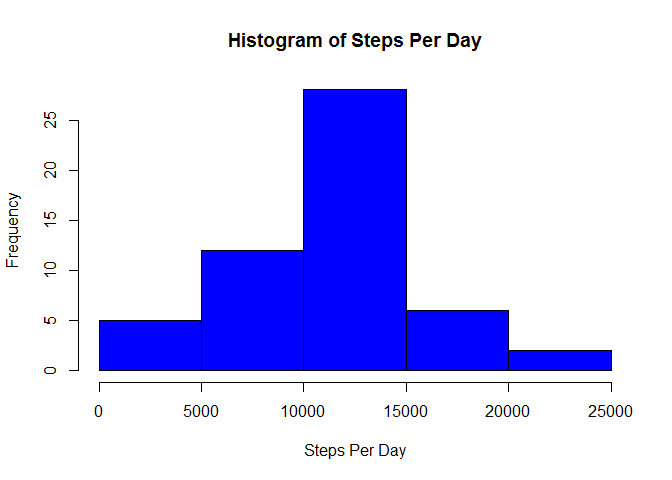
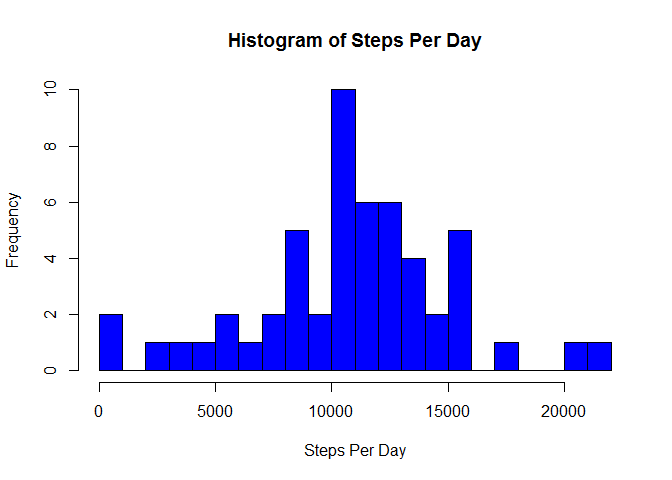
changing breaks in the histogram

diff --git a/PA1_template.html b/PA1_template.html
@@ -172,8 +172,8 @@ head(stepsByDay)</code></pre>
 <ol start="2" style="list-style-type: decimal">
 <li>If you do not understand the difference between a histogram and a barplot, research the difference between them. Make a histogram of the total number of steps taken each day</li>
 </ol>
-<pre class="r"><code>hist(stepsByDay$sumSteps, main=&quot;Histogram of Steps Per Day&quot;, xlab=&quot;Steps Per Day&quot;, col=&quot;blue&quot;)</code></pre>
[1 lines of base64/hex data omitted]
+<pre class="r"><code>hist(stepsByDay$sumSteps, main=&quot;Histogram of Steps Per Day&quot;, xlab=&quot;Steps Per Day&quot;, col=&quot;blue&quot;, breaks=25)</code></pre>
[1 lines of base64/hex data omitted]
 <ol start="3" style="list-style-type: decimal">
 <li>Calculate and report the mean and median of the total number of steps taken per day</li>
 </ol>

diff --git a/PA1_template.md b/PA1_template.md
@@ -105,7 +105,7 @@ head(stepsByDay)
 2) If you do not understand the difference between a histogram and a barplot, research the difference between them. Make a histogram of the total number of steps taken each day
 
 ```r
-hist(stepsByDay$sumSteps, main="Histogram of Steps Per Day", xlab="Steps Per Day", col="blue")
+hist(stepsByDay$sumSteps, main="Histogram of Steps Per Day", xlab="Steps Per Day", col="blue", breaks=25)
 ```
 
 ![](PA1_template_files/figure-html/unnamed-chunk-3-1.png)<!-- -->
